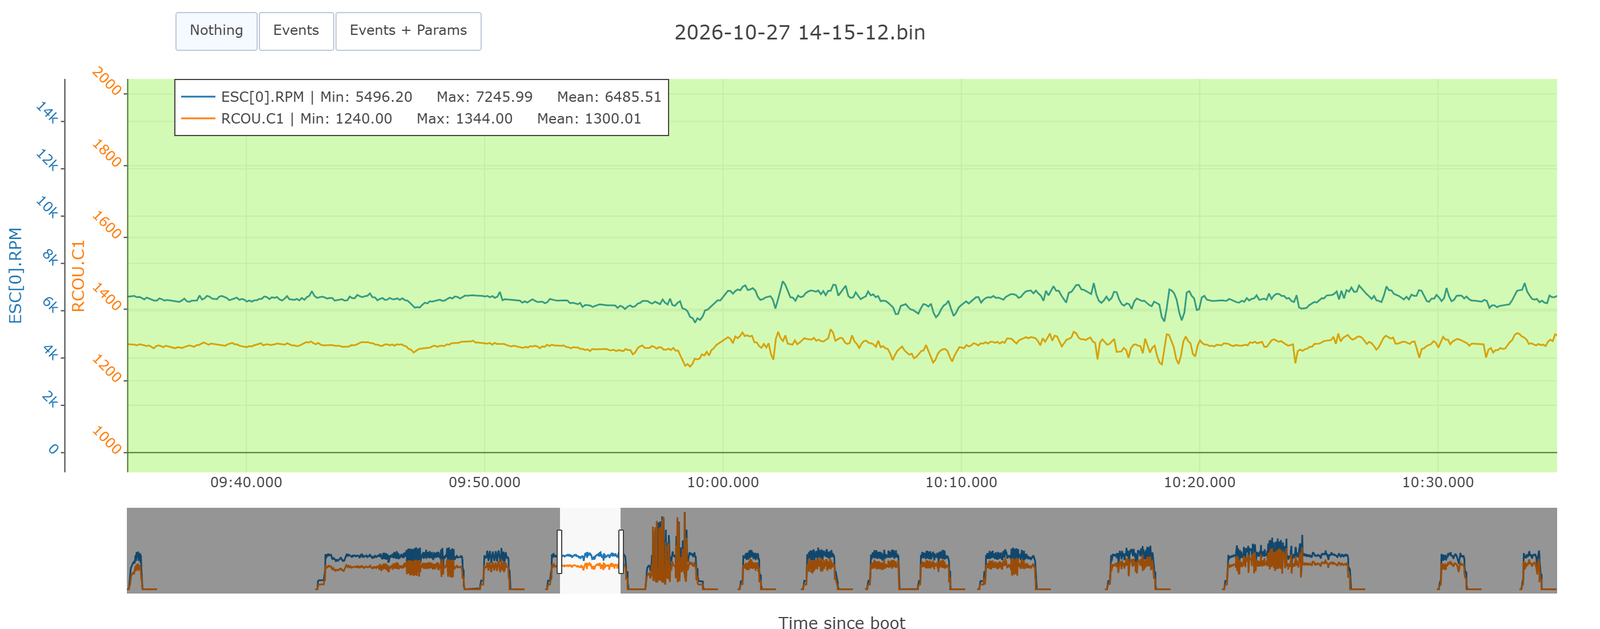
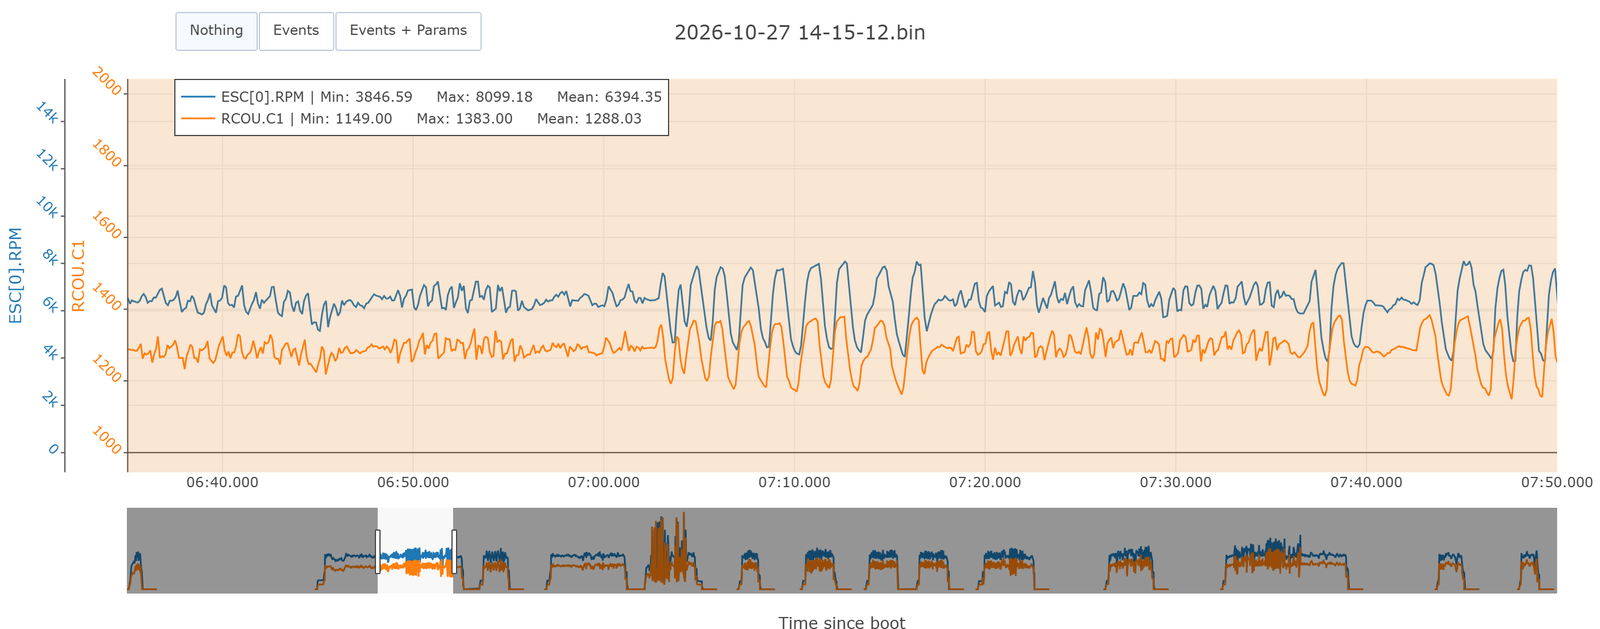
Formation 9 : vues ESC contre RCOU et time domain du yaw sur des coups de stick

diff --git a/9-tuning/9.1-lire-un-log.md b/9-tuning/9.1-lire-un-log.md
@@ -208,7 +208,7 @@ Le clipping compte les fois où l'accéléromètre a dépassé sa plage de mesur
 ### 5.3 - Moteurs et ESC
 
 - **Le RPM fait-il du sens ?** Pendant le hover de 573 à 593 s, les quatre moteurs tournent entre 6 260 et 6 500 tr/min. Divisé par 60 : **104 à 108 Hz**. C'est le gros pic que vous verrez dans Filter Review. Si le RPM lu était le double ou la moitié de l'attendu, `SERVO_BLH_POLES` serait faux, et on le corrigerait **avant** les filtres.
-- **RPM contre sortie PWM** : `ESC[0].RPM` et `RCOU.C1` (même moteur) ont la même forme. Si les formes divergent, un ESC ou un câblage a un problème.
+- **RPM contre sortie PWM** : pendant les coups de stick du premier vol (395 à 470 s), `ESC[0].RPM` et `RCOU.C1` (même moteur) ont la même forme. Si les formes divergent, un ESC ou un câblage a un problème.
 
 ![ESC RPM et RCOU du même moteur](images/9.1-08-esc-rpm-rcou.png)
 

diff --git a/9-tuning/9.3-les-rates.md b/9-tuning/9.3-les-rates.md
@@ -68,7 +68,7 @@ L'onglet time domain superpose la consigne (Target), la mesure (Actual) et l'éc
 <summary>Réponse</summary>
 
 - **Roll et pitch** : la mesure suit la consigne de près, avec un léger retard, toujours présent. Les sommets sont presque à la même hauteur (en roll, 236 mesurés pour 233 demandés). Rien d'alarmant.
-- **Yaw** : la mesure reste sous la consigne à chaque coup. C'est un **undershoot** net.
+- **Yaw** : la mesure arrive en retard et reste sous la consigne à chaque sommet (79 pour 88, 103 pour 117, 124 pour 139 degrés par seconde). C'est un **undershoot** net.
 
 Attention : les coups de stick sont des rampes, pas des échelons. Avec une rampe, le contrôleur a le temps de rattraper le sommet ; le time domain flatte le réglage. C'est pour ça qu'on lit aussi la step response.
 

diff --git a/9-tuning/IMAGES.md b/9-tuning/IMAGES.md
@@ -15,7 +15,7 @@ Pour refaire une image : charger le log dans l'outil, régler la plage de temps 
 | `9.1-05-hardware-report-voltage.png` | Hardware Report | Voltage du contrôleur (non référencée dans le texte) |
 | `9.1-06-hardware-report-messages-perdus.png` | Hardware Report | Messages perdus (non référencée dans le texte) |
 | `9.1-07-vibe-clip.png` | UAV Log Viewer | `VIBE[0].VibeX/Y/Z`, `VIBE[0].Clip`, `CTUN.Alt` |
-| `9.1-08-esc-rpm-rcou.png` | UAV Log Viewer | `ESC[0].RPM` et `RCOU.C1`, 575 à 635 s |
+| `9.1-08-esc-rpm-rcou.png` | UAV Log Viewer | `ESC[0].RPM` et `RCOU.C1`, 395 à 470 s |
 
 ## 9.2 vibrations et filtres
 
